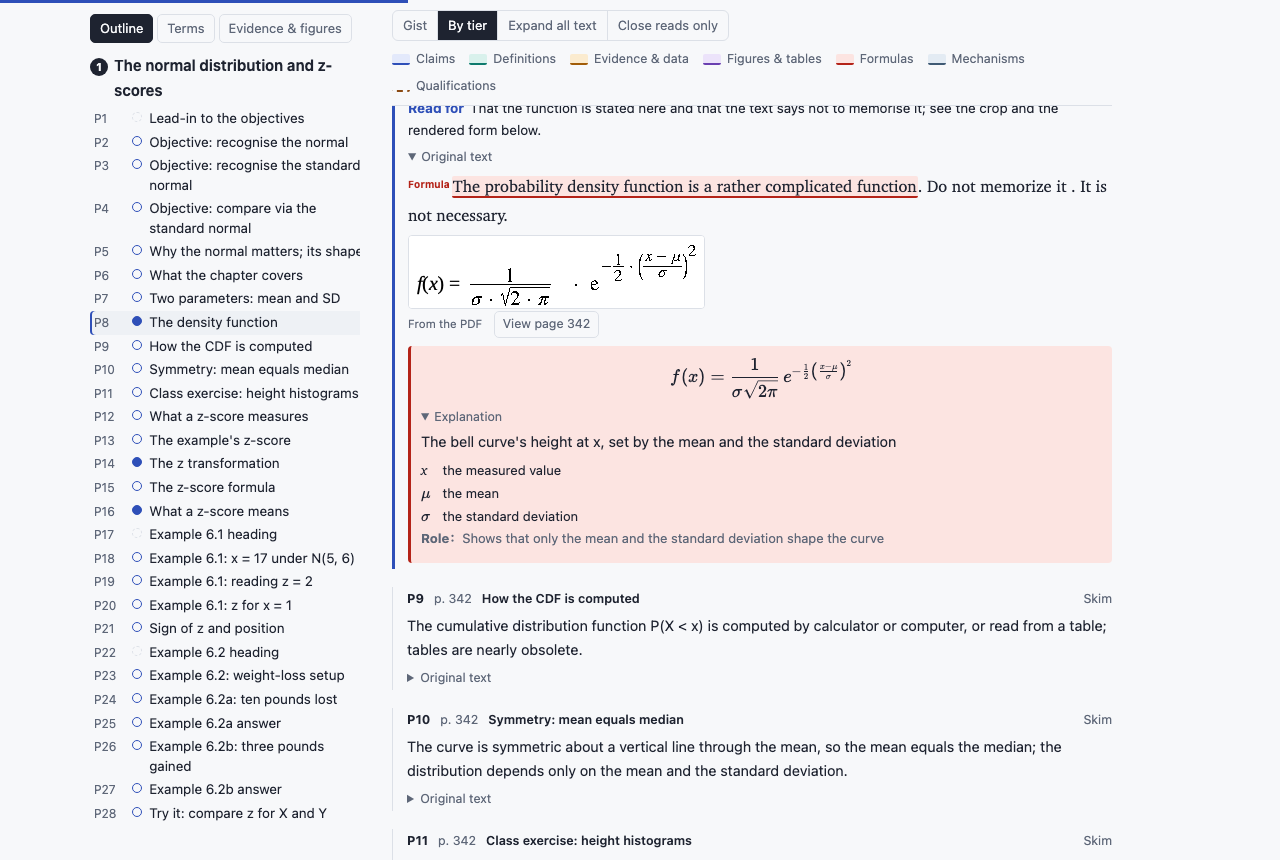
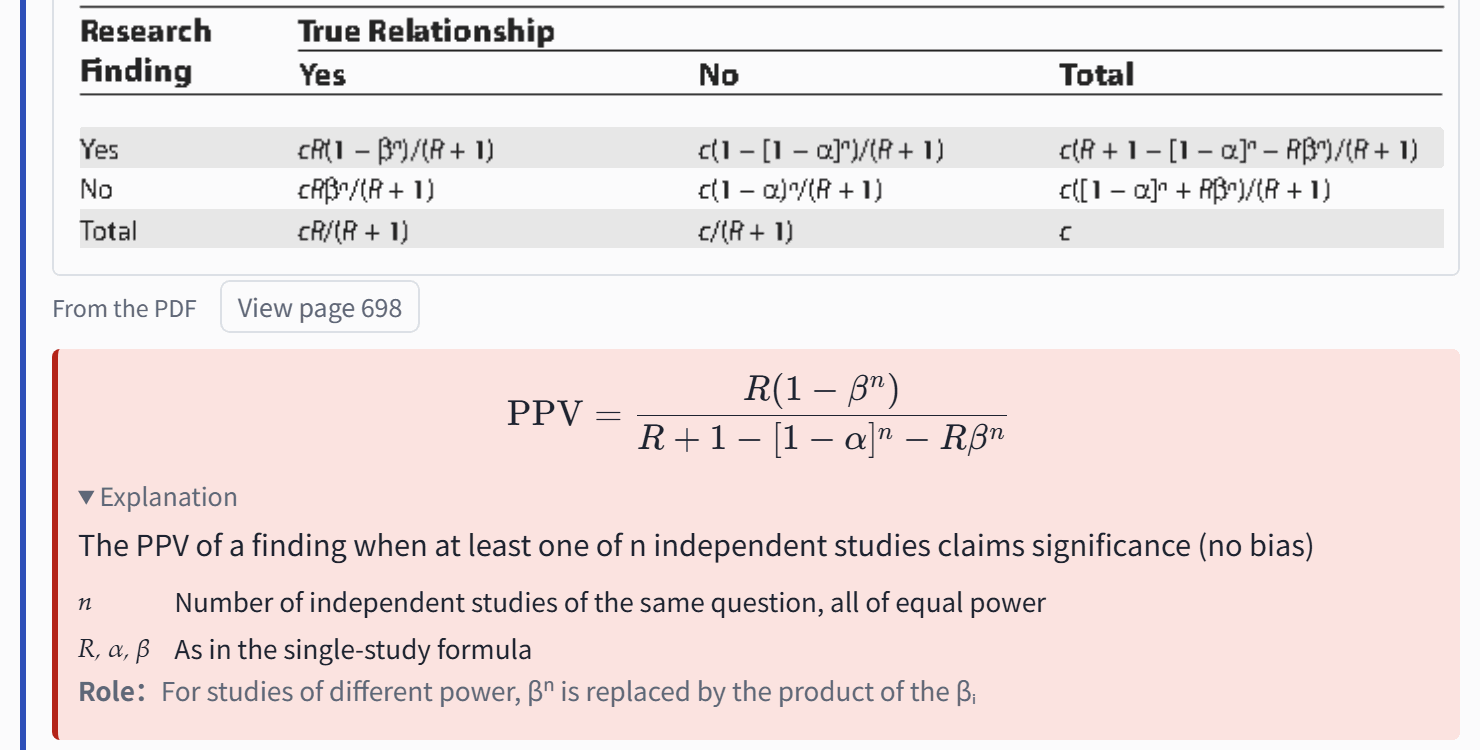
fix: MinerU output read as UTF-8; check.py flags LaTeX backslashes eaten by JSON; README screenshots from Ioannidis (2005, CC BY), plainer wording, honest limits

diff --git a/scripts/check.py b/scripts/check.py
@@ -364,6 +364,24 @@ def run_checks(doc, guide, density=None):
     if n and counts["close"] == 0:
         warns.append("no close-read paragraphs")
     stats = {"n": n, "counts": counts, "density": dens, "langs": langs, "parts": len(parts)}
+    # JSON escapes that eat a LaTeX backslash: "\beta" -> backspace, "\frac" -> form feed, "\theta" -> tab, ...
+    def eaten(where, v, key=None):
+        if isinstance(v, dict):
+            for k, x in v.items():
+                eaten(f"{where}.{k}" if where else str(k), x, k)
+        elif isinstance(v, list):
+            for k, x in enumerate(v):
+                eaten(f"{where}[{k + 1}]", x, key)
+        elif isinstance(v, str):
+            fix = "write a double backslash in the JSON, e.g. \"\\\\beta\" for \\beta"
+            if "\x08" in v or "\x0c" in v:
+                errors.append(f"{where}: contains a backspace/form-feed character, so a LaTeX backslash was eaten by JSON "
+                              f"(\\b -> backspace, \\f -> form feed); {fix}: «{v[:50]!r}»")
+            elif (key == "tex" or "$" in v) and re.search(r"[\t\n\r][a-z]", v):
+                errors.append(f"{where}: a tab/newline/return is followed by a letter, probably \\theta, \\nu or \\rho eaten by JSON "
+                              f"(\\t, \\n, \\r); {fix}: «{v[:50]!r}»")
+    eaten("", guide)
+
     return errors, warns, {"hl": hl, "stats": stats, "primary": primary}
 
 

diff --git a/tests/unit/test_check.py b/tests/unit/test_check.py
@@ -248,6 +248,22 @@ def test_formula_double_backslash_before_brace_is_not_an_escape(clean):
     assert not any('braces' in e for e in errors)
 
 
+def test_json_eaten_latex_backslash_is_an_error(clean):
+    doc, g = clean
+    g['paras']['P1']['note'] = {'zh': 'ok', 'en': 'ok'}
+    g['paras']['P1']['why'] = 'bad $\x08eta^{n}$'
+    errors, _, _ = run_checks(doc, g)
+    assert any('paras.P1.why' in e and 'double backslash' in e for e in errors)
+    doc, g = _formula(clean, tex='\theta + 1')
+    errors, _, _ = run_checks(doc, g)
+    assert any('paras.P1.els[1].tex' in e and 'double backslash' in e for e in errors)
+    del g['paras']['P1']['why']
+    doc, g = _formula(clean, tex='\\theta + 1')
+    g['paras']['P1']['els'][0]['x'] = 'first line\nsecond line'
+    errors, _, _ = run_checks(doc, g)
+    assert not any('double backslash' in e for e in errors)
+
+
 def test_formula_tex_numbers_must_come_from_the_source(clean):
     # 3 and 5 are in the paragraph; 7 is not. Sub- and superscripts are notation, not data.
     _, warns, _ = run_checks(*_formula(clean, tex='s_1 = \\frac{3}{5} x^{2}'))

diff --git a/tests/unit/test_mineru_backend.py b/tests/unit/test_mineru_backend.py
@@ -121,3 +121,24 @@ def test_convert_equation_label_alone_is_a_fragment():
     sc = _pages([_b('paragraph_title', 'Bias', 0.05, level=2), _b('text', LONG, 0.1, 0.3), _b('text', '(2a)', 0.32), _b('equation', '', 0.33, 0.4)])
     d = mb.convert(sc, 'x.pdf', '/x.pdf')
     assert [i['type'] for i in d['items'] if i['text'] == '(2a)'] == ['frag']
+
+
+def test_run_decodes_mineru_output_as_utf8(monkeypatch, tmp_path):
+    # on a Chinese Windows console text=True decoded MinerU's output as GBK and the reader thread raised UnicodeDecodeError
+    seen = {}
+
+    def fake_run(cmd, **kw):
+        seen.update(kw)
+        (tmp_path / 'out.zip').write_bytes(b'')
+        class R:
+            returncode = 1
+            stderr = 'boom'
+        return R()
+
+    monkeypatch.setattr(mb.subprocess, 'run', fake_run)
+    try:
+        mb.run('x.pdf', tmp_path, python='py')
+    except SystemExit:
+        pass
+    assert seen.get('encoding') == 'utf-8' and seen.get('errors') == 'replace'
+    assert seen['env']['PYTHONIOENCODING'] == 'utf-8'

diff --git a/scripts/mineru_backend.py b/scripts/mineru_backend.py
@@ -94,7 +94,8 @@ def run(pdf_path, out_dir, pages=None, python=None):
     if pages:
         cmd += ["-p", pages]
     print(f"MinerU: {'with formula model' if mode == '--with-mfr' else 'light, display formulas as crops'} …", file=sys.stderr, flush=True)
-    res = subprocess.run(cmd, capture_output=True, text=True)
+    env = dict(os.environ, PYTHONIOENCODING="utf-8")
+    res = subprocess.run(cmd, capture_output=True, text=True, encoding="utf-8", errors="replace", env=env)
     if res.returncode != 0:
         sys.exit("MinerU failed:\n" + res.stderr[-2000:])
     zips = sorted(out_dir.glob("*.zip"), key=lambda p: p.stat().st_mtime)

diff --git a/README.md b/README.md
@@ -6,9 +6,9 @@ English | [中文](README.zh.md)
 
 ![The top of a reading page: thesis, the reader's brief and questions, and the argument map](assets/readme/page-top.png)
 
-![A close-read paragraph with its formula cropped from the PDF, rendered in KaTeX and explained](assets/readme/page-formula.png)
+![A table cropped from the PDF under the paragraph that cites it, the formula rendered in KaTeX, and its symbols explained](assets/readme/page-formula.png)
 
-The demo pages above come from an OpenStax statistics chapter (CC BY). The skill follows the open [Agent Skills](https://agentskills.io) format, so it works in any agent that supports skills; the scripts are plain Python and the page is a single file that works offline.
+The screenshots come from a guide to Ioannidis (2005), [Why Most Published Research Findings Are False](https://doi.org/10.1371/journal.pmed.0020124), PLoS Medicine 2(8): e124 (CC BY). The skill follows the open [Agent Skills](https://agentskills.io) format, so it works in any agent that supports skills; the scripts are plain Python and the page is a single file that works offline.
 
 ## Installation (30-second setup)
 
@@ -40,7 +40,7 @@ npx skills@latest add Liangzhen-Chen/literature-guide-read
 pip install pdfplumber beautifulsoup4   # beautifulsoup4 is only needed for open versions (arXiv)
 ```
 
-The installer asks which agents to install to; `-g` installs for your user instead of the current project.
+The installer asks which agents to install to; the default is the current project, and `-g` installs at user level.
 </details>
 
 <details>
@@ -73,7 +73,7 @@ python scripts/render.py work/paragraphs.json work/guide.json work/paras_01.json
 If `check.py` reports errors, paste them back to the model and ask it to fix them.
 </details>
 
-**Optional, for scans and formula-heavy readings:** Tesseract (`eng`, `chi_sim`) and Poppler for OCR; [MinerU](https://github.com/opendatalab/MinerU) for layout analysis (`pip install "mineru>=4,<5" && mineru-kit models download --tier basic`, about 0.8 GB, CPU is fine). `segment.py` uses MinerU automatically when it is installed; see [Extraction tiers](#extraction-tiers).
+Optional, for scans and formula-heavy readings: Tesseract (`eng`, `chi_sim`) and Poppler for OCR; [MinerU](https://github.com/opendatalab/MinerU) for layout analysis (`pip install "mineru>=4,<5" && mineru-kit models download --tier basic`, about 0.8 GB, CPU is fine). `segment.py` uses MinerU automatically when it is installed; see [Extraction tiers](#extraction-tiers).
 
 ## Usage
 
@@ -83,22 +83,22 @@ If `check.py` reports errors, paste them back to the model and ask it to fix the
 
 What you get on the page:
 
-- **Your brief** at the top: purpose, familiarity, and each of your questions answered from the text with links to the paragraphs.
-- **Argument map**: the conclusion on top, each part linked to it by a typed relation (supports, explains, qualifies, extends, …); click a part to see its reasoning steps. "Guess the relations" hides the relations so you work them out first.
-- **The original text in order.** Close-read paragraphs open with a one-line "read for" prompt. Skim and skip paragraphs lead with a note that restates them; the original is one click away. The **Gist** view folds everything but the notes.
-- **Highlights** inside the original for definitions, claims, evidence, figures, formulas and qualifications; every defined term and symbol shows its definition on hover wherever it recurs.
-- **Formulas and tables** cropped from the PDF under the paragraph that cites them; formulas are also rendered in KaTeX with a symbol table and a one-line explanation, folded until you want it.
-- **Recall questions** at the end of each part, answers hidden.
+- A brief at the top: purpose, familiarity, and each of your questions answered from the text with links to the paragraphs.
+- An argument map: the conclusion on top, each part linked to it by a typed relation (supports, explains, qualifies, extends, …); click a part to see its reasoning steps. "Guess the relations" hides the relations so you work them out first.
+- The original text in order. Close-read paragraphs open with a one-line "read for" prompt. Skim and skip paragraphs lead with a note that restates them; the original is one click away. The Gist view folds everything but the notes.
+- Highlights inside the original for definitions, claims, evidence, figures, formulas and qualifications; every defined term and symbol shows its definition on hover wherever it recurs.
+- Formulas and tables cropped from the PDF under the paragraph that cites them; formulas are also rendered in KaTeX with a symbol table and a one-line explanation, folded until you want it.
+- Recall questions at the end of each part, answers hidden.
 - A sidebar with every paragraph's role, the terms and the evidence; Chinese, English or both with a switch.
 
 While you read, ask the agent about any paragraph ("what is P23 saying?"), correct a tier or a note, or say "walk me through it" to go part by part.
 
 ## How it works
 
-1. `segment.py` splits the PDF into fixed paragraph ids (P1, P2, …), recognises headings, captions and footnotes, removes running heads, records printed page numbers, links footnotes to the paragraphs that cite them, and crops every display equation and table region. Two-column layouts, scans (OCR) and Chinese headings and footnotes are handled.
+1. `segment.py` splits the PDF into fixed paragraph ids (P1, P2, …), recognises headings, captions and footnotes, removes running heads, records printed page numbers, links footnotes to the paragraphs that cite them, and crops every display equation and table region. Single- and two-column layouts (three columns or a side column need MinerU), scans (OCR) and Chinese headings and footnotes are handled.
 2. `sources.py` (optional) fetches the arXiv HTML or TeX version of a paper for clean figures, tables and formulas.
 3. The agent reads every paragraph and writes the guide data: parts and claims, the relations between parts, a tier and a note or "read for" line per paragraph, elements anchored to verbatim spans, formula transcriptions checked against the crops, recall questions.
-4. `check.py` reports an error, and `render.py` writes no page, when a paragraph has no entry, parts do not cover the text in order, an anchor is not verbatim in the paragraph, a number in a note is not in the source, or LaTeX braces are unbalanced. It only warns about numbers inside a formula's `tex`, a close-read share above the density cap, and notes that describe instead of restate.
+4. `check.py` reports an error, and `render.py` writes no page, when a paragraph has no entry, parts do not cover the text in order, an anchor is not verbatim in the paragraph, a number in a note is not in the source, or LaTeX braces are unbalanced. It only warns about numbers inside a formula's `tex`, a close-read share above the density cap, and notes that only describe a paragraph without restating its content.
 5. `render.py` builds the single-file page.
 
 The rules the agent follows are in `references/method.md`, `elements.md`, `genres.md` and `schema.md`; they are plain text and meant to be edited as you learn what your readings need.
@@ -118,11 +118,11 @@ Measured on a private set of 11 readings (seven real publications, scans and a t
 
 The design follows published studies of reading interfaces and learning:
 
-- Faceted highlights let readers find information faster without losing accuracy, but wrong or dense highlights cost trust ([Scim, Allen AI](https://dl.acm.org/doi/fullHtml/10.1145/3581641.3584034)). Hence sparse, validated highlights and a Gist view.
-- Definitions at the point of use help readers of dense papers ([ScholarPhi](https://dl.acm.org/doi/fullHtml/10.1145/3411764.3445648)). Hence hover definitions.
-- Argument mapping improves critical thinking, and the gain comes from working the map out, not from looking at it ([van Gelder](https://www.reasoninglab.com/wp-content/uploads/2013/10/TvG-Using-argument-mapping-to-improve-critical-thinking-skills-2015.pdf)). Hence "guess the relations".
-- Pre-questions help on the material they target ([prequestion meta-analysis](https://link.springer.com/article/10.3758/s13423-023-02353-8)) and retrieval practice is the best-supported study method ([Dunlosky et al. 2013](https://doi.org/10.1177/1529100612453266)). Hence specific "read for" prompts and recall questions.
-- Explaining a worked example to yourself beats reading the explanation ([self-explanation](https://link.aps.org/doi/10.1103/PhysRevPhysEducRes.18.010136)). Hence formula explanations folded until asked.
+- Faceted highlights let readers find information faster without losing accuracy, but wrong or dense highlights cost trust ([Scim, Allen AI](https://dl.acm.org/doi/fullHtml/10.1145/3581641.3584034)). So the page has sparse, validated highlights and a Gist view.
+- Definitions at the point of use help readers of dense papers ([ScholarPhi](https://dl.acm.org/doi/fullHtml/10.1145/3411764.3445648)). So definitions show on hover.
+- Argument mapping improves critical thinking, and the gain comes from working the map out yourself ([van Gelder](https://www.reasoninglab.com/wp-content/uploads/2013/10/TvG-Using-argument-mapping-to-improve-critical-thinking-skills-2015.pdf)). So there is a "guess the relations" switch.
+- Pre-questions help on the material they target ([prequestion meta-analysis](https://link.springer.com/article/10.3758/s13423-023-02353-8)) and retrieval practice is the best-supported study method ([Dunlosky et al. 2013](https://doi.org/10.1177/1529100612453266)). So the "read for" prompts are specific and each part ends with recall questions.
+- Explaining a worked example to yourself beats reading the explanation ([self-explanation](https://link.aps.org/doi/10.1103/PhysRevPhysEducRes.18.010136)). So formula explanations stay folded until you open them.
 
 ## Files
 
@@ -147,7 +147,8 @@ Tests: `python -m pytest tests/unit` (Python 3.9 and 3.12). Every fix to the scr
 ## Known limits
 
 - Segmentation is heuristic on the default tier: equations, tables, metadata and unusual layouts can still split or merge paragraphs. Spot-check the part files before the guide is written; the paragraph ids are frozen after that.
-- Inline formulas inside prose stay as the PDF text layer gives them unless MinerU's formula model is installed. The original paragraph is never edited; display formulas are shown as crops beside their transcription.
+- The default tier handles single- and two-column layouts only. Three columns or a side column (for example the 2005 PLOS Medicine layout) need MinerU.
+- With MinerU, inline formulas in prose appear in the original paragraph as the LaTeX source MinerU returns; the page does not render them, and the original paragraph is never edited. Without MinerU's formula model they stay as the PDF text layer gives them. Display formulas are shown as crops beside their transcription.
 - Open versions are fetched only for arXiv papers, and only where the network allows.
 - A page embeds the full text of the PDF it was built from. Keep pages made from copyrighted readings to yourself; use openly licensed papers for public demos.
 

diff --git a/README.zh.md b/README.zh.md
@@ -6,9 +6,9 @@
 
 ![页面顶部：核心论点、读者的阅读目的和问题、论证地图](assets/readme/page-top.png)
 
-![一个精读段：公式从 PDF 裁出，用 KaTeX 渲染并解释](assets/readme/page-formula.png)
+![从 PDF 裁下的表格挂在引用它的段落下，公式用 KaTeX 渲染，符号逐个解释](assets/readme/page-formula.png)
 
-上面的演示页来自 OpenStax 统计教材的一章（CC BY）。这个 skill 遵循开放的 [Agent Skills](https://agentskills.io) 格式，任何支持 skill 的 agent 都能用；脚本是普通 Python，页面是单个文件，离线可用。
+截图来自 Ioannidis（2005）[Why Most Published Research Findings Are False](https://doi.org/10.1371/journal.pmed.0020124) 的导读页，PLoS Medicine 2(8): e124（CC BY）。这个 skill 遵循开放的 [Agent Skills](https://agentskills.io) 格式，任何支持 skill 的 agent 都能用；脚本是普通 Python，页面是单个文件，离线可用。
 
 ## 安装（30 秒）
 
@@ -73,7 +73,7 @@ python scripts/render.py work/paragraphs.json work/guide.json work/paras_01.json
 `check.py` 报错就把错误贴回给模型让它改。
 </details>
 
-**可选，用于扫描件和公式密集的读物：** Tesseract（`eng`、`chi_sim`）和 Poppler 做 OCR；[MinerU](https://github.com/opendatalab/MinerU) 做版面分析（`pip install "mineru>=4,<5" && mineru-kit models download --tier basic`，约 0.8 GB，CPU 即可）。装了 MinerU 后 `segment.py` 自动使用，见[两档提取](#两档提取)。
+可选，用于扫描件和公式密集的读物：Tesseract（`eng`、`chi_sim`）和 Poppler 做 OCR；[MinerU](https://github.com/opendatalab/MinerU) 做版面分析（`pip install "mineru>=4,<5" && mineru-kit models download --tier basic`，约 0.8 GB，CPU 即可）。装了 MinerU 后 `segment.py` 自动使用，见[两档提取](#两档提取)。
 
 ## 用法
 
@@ -83,19 +83,19 @@ python scripts/render.py work/paragraphs.json work/guide.json work/paras_01.json
 
 页面上有：
 
-- **你的简报**在顶部：目的、熟悉程度，以及你的每个问题从原文作答并链接到段落。
-- **论证地图**：结论在最上方，各部分用带类型的关系（支持、解释、限定、推广……）连到结论；点一个部分看它内部的推理步骤。"先猜关系"把关系藏起来让你先自己判断。
-- **按原文顺序排的正文**。精读段上方有一行"读时注意"；略读和可跳过段先显示复述笔记，原文一键可见。**粗读**视图只留笔记。
-- 原文里的**高亮**：定义、论点、证据、图表、公式、限定；每个定义过的术语和符号在后文出现时悬停显示定义。
-- **公式和表格**从 PDF 裁出，挂在引用它们的段落下；公式另用 KaTeX 渲染，配符号表和一句话解释，默认折叠。
-- 每部分末尾的**回想题**，答案折叠。
+- 顶部是你的简报：目的、熟悉程度，以及你的每个问题从原文作答并链接到段落。
+- 论证地图：结论在最上方，各部分用带类型的关系（支持、解释、限定、推广……）连到结论；点一个部分看它内部的推理步骤。"先猜关系"把关系藏起来让你先自己判断。
+- 按原文顺序排的正文。精读段上方有一行"读时注意"；略读和可跳过段先显示复述笔记，原文一键可见。粗读视图只留笔记。
+- 原文里的高亮：定义、论点、证据、图表、公式、限定；每个定义过的术语和符号在后文出现时悬停显示定义。
+- 公式和表格从 PDF 裁出，挂在引用它们的段落下；公式另用 KaTeX 渲染，配符号表和一句话解释，默认折叠。
+- 每部分末尾的回想题，答案折叠。
 - 左侧栏列出每段的作用、术语表、证据清单；中文、英文或双语切换。
 
 阅读过程中可以问 agent 任何一段（"P23 在说什么？"），改某段的档位或笔记，或者说"带我过一遍"让它逐部分讲。
 
 ## 原理
 
-1. `segment.py` 把 PDF 切成固定编号的段落（P1、P2……），识别标题、图注、脚注，去掉页眉，记下印刷页码，把脚注挂到引用它的段落上，并把每条行间公式和表格区域裁成图。支持双栏、扫描件 OCR、中文标题和脚注。
+1. `segment.py` 把 PDF 切成固定编号的段落（P1、P2……），识别标题、图注、脚注，去掉页眉，记下印刷页码，把脚注挂到引用它的段落上，并把每条行间公式和表格区域裁成图。支持单栏和双栏（三栏或带侧栏要用 MinerU）、扫描件 OCR、中文标题和脚注。
 2. `sources.py`（可选）抓取 arXiv 的 HTML 或 TeX 版本，取干净的图、表、公式。
 3. Agent 读完每一段，写导读数据：分部分和分论点、部分之间的关系、每段的档位和笔记或"读时注意"、逐字锚定的要素、对照裁剪图核对过的公式转写、回想题。
 4. 下列情况 `check.py` 报错，`render.py` 不生成页面：某段没有条目、各部分没按顺序覆盖全文、锚句在该段里找不到原文、笔记里的数字不在原文、LaTeX 括号不配平。公式 `tex` 里的数字、精读比例超过上限、笔记只描述段落没有复述内容，这三种只给警告。
@@ -120,7 +120,7 @@ Agent 遵守的规则在 `references/method.md`、`elements.md`、`genres.md`、
 
 - 分面高亮让读者更快找到信息且不降低准确率，但错误或过密的高亮会损害信任（[Scim, Allen AI](https://dl.acm.org/doi/fullHtml/10.1145/3581641.3584034)）。所以高亮稀疏、经过校验，并提供粗读视图。
 - 在用到的位置给定义对读密集论文有帮助（[ScholarPhi](https://dl.acm.org/doi/fullHtml/10.1145/3411764.3445648)）。所以有悬停释义。
-- 论证图能提升批判性思维，收益来自读者自己动手画图，看现成的图得不到（[van Gelder](https://www.reasoninglab.com/wp-content/uploads/2013/10/TvG-Using-argument-mapping-to-improve-critical-thinking-skills-2015.pdf)）。所以有"先猜关系"。
+- 论证图能提升批判性思维，收益来自自己动手画图（[van Gelder](https://www.reasoninglab.com/wp-content/uploads/2013/10/TvG-Using-argument-mapping-to-improve-critical-thinking-skills-2015.pdf)）。所以有"先猜关系"。
 - 前置问题对它指向的内容有效（[prequestion 元分析](https://link.springer.com/article/10.3758/s13423-023-02353-8)），提取练习是证据最强的学习方法（[Dunlosky 等 2013](https://doi.org/10.1177/1529100612453266)）。所以"读时注意"写得具体，每部分有回想题。
 - 自己解释工作示例比读解释有效（[self-explanation](https://link.aps.org/doi/10.1103/PhysRevPhysEducRes.18.010136)）。所以公式解释默认折叠。
 
@@ -147,7 +147,8 @@ Agent 遵守的规则在 `references/method.md`、`elements.md`、`genres.md`、
 ## 已知限制
 
 - 默认档的切段是启发式的：公式、表格、元数据和特殊版式仍可能切错或合并段落。写导读前先抽查 part 文件，之后段落编号固定。
-- 正文里的行内公式按 PDF 文字层原样保留，除非装了 MinerU 的公式模型。原文一字不改；行间公式以裁剪图配转写显示。
+- 默认档只处理单栏和双栏。三栏或带侧栏的版式（例如 2005 年 PLOS Medicine 的排版）要装 MinerU。
+- 用 MinerU 时，正文里的行内公式以 MinerU 给出的 LaTeX 源码显示在原文段落中，页面不渲染它们，原文段落也不做编辑。没有 MinerU 的公式模型时，行内公式按 PDF 文字层原样保留。行间公式以裁剪图配转写显示。
 - 开放版本只对 arXiv 论文抓取，且需要网络允许。
 - 页面里嵌有生成它的 PDF 的全文。用受版权保护的读物生成的页面只留给自己看；公开演示请用开放许可的论文。
 

diff --git a/CHANGELOG.md b/CHANGELOG.md
@@ -9,10 +9,12 @@ Pre-release fixes found while auditing the skill before publishing it.
 - render.py: the page no longer embeds the absolute path of the PDF (it showed the local folder structure to anyone the page was shared with). Pass `--pdf` when re-rendering a page recovered with `--dump`, to get page images again.
 - All scripts print UTF-8 whatever the console encoding; segment.py no longer stops with UnicodeEncodeError on an English Windows console (cp1252).
 - assets/katex/LICENSE holds the KaTeX MIT licence text, and inlined KaTeX carries a one-line version and licence comment.
+- mineru_backend.py: MinerU's output is read as UTF-8 (the child process is told to write UTF-8), so a Chinese Windows console (GBK) no longer raises UnicodeDecodeError in the reader thread.
 - SKILL.md description is under 200 characters and says when to use the skill (a reading plus a request for a guide, close reading or study help).
 - requirements.txt lists Pillow; the README install line adds beautifulsoup4, needed only for open versions (arXiv). THIRD_PARTY_NOTICES.md covers MinerU and the test data, and no longer mentions files that are not in the repository.
 - README: check.py's errors and warnings are listed as they are; the MinerU measurements say the reading set is not distributed.
 - Tests: file reads and writes name their encoding; the MinerU fixture text is from a CC BY paper (Ioannidis 2005).
+- check.py: a backspace or form feed in any guide text, or a tab, newline or return followed by a lowercase letter in a `tex` field or a text with `$`, is an error. It means JSON ate a LaTeX backslash (`\beta` written with one backslash becomes a backspace and `eta`); write `\\beta` in the JSON.
 
 ## 0.6.0 (2026-10-15)
 

diff --git a/references/schema.md b/references/schema.md
@@ -104,4 +104,4 @@ Field rules:
 - `formula` elements: `tex` is the LaTeX (copied from the open version, from MinerU, or transcribed by you from `WORK/crops/<id>.png`); `syms` lists every symbol; `x` says the equation in words; `why` is optional. A formula element without `tex` gets a warning.
 - Footnote entries use the footnote's id (N1, N2, ...) from paragraphs.json and are optional.
 - Numbers in any text field must appear in the source text (method.md section 6).
-- Any text field may hold inline LaTeX between single dollar signs (`"note": "Two goods: $c_1 \\in \\{0,1\\}$ ..."`); the page renders it. A dollar sign followed by a digit is money, not math.
+- Any text field may hold inline LaTeX between single dollar signs (`"note": "Two goods: $c_1 \\in \\{0,1\\}$ ..."`); the page renders it. A dollar sign followed by a digit is money, not math. In JSON write every LaTeX backslash twice (`"\\beta"`): with one backslash, `\b`, `\f`, `\t`, `\n` and `\r` turn into control characters, and check.py reports them.
